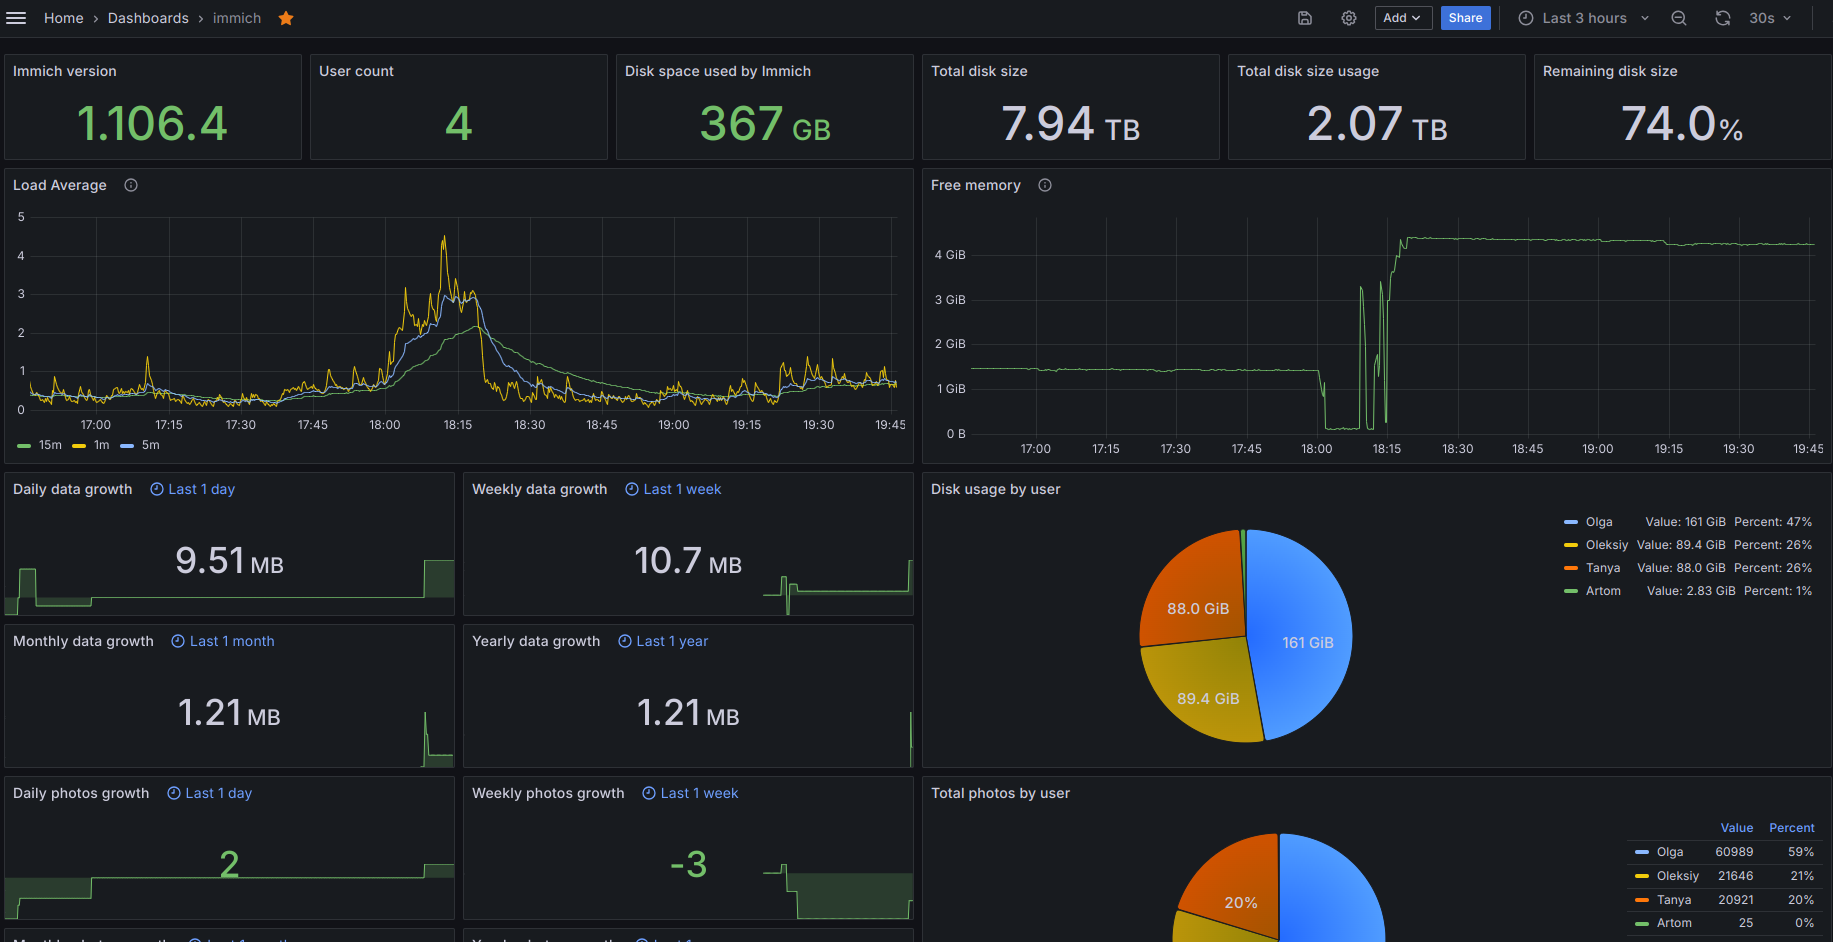
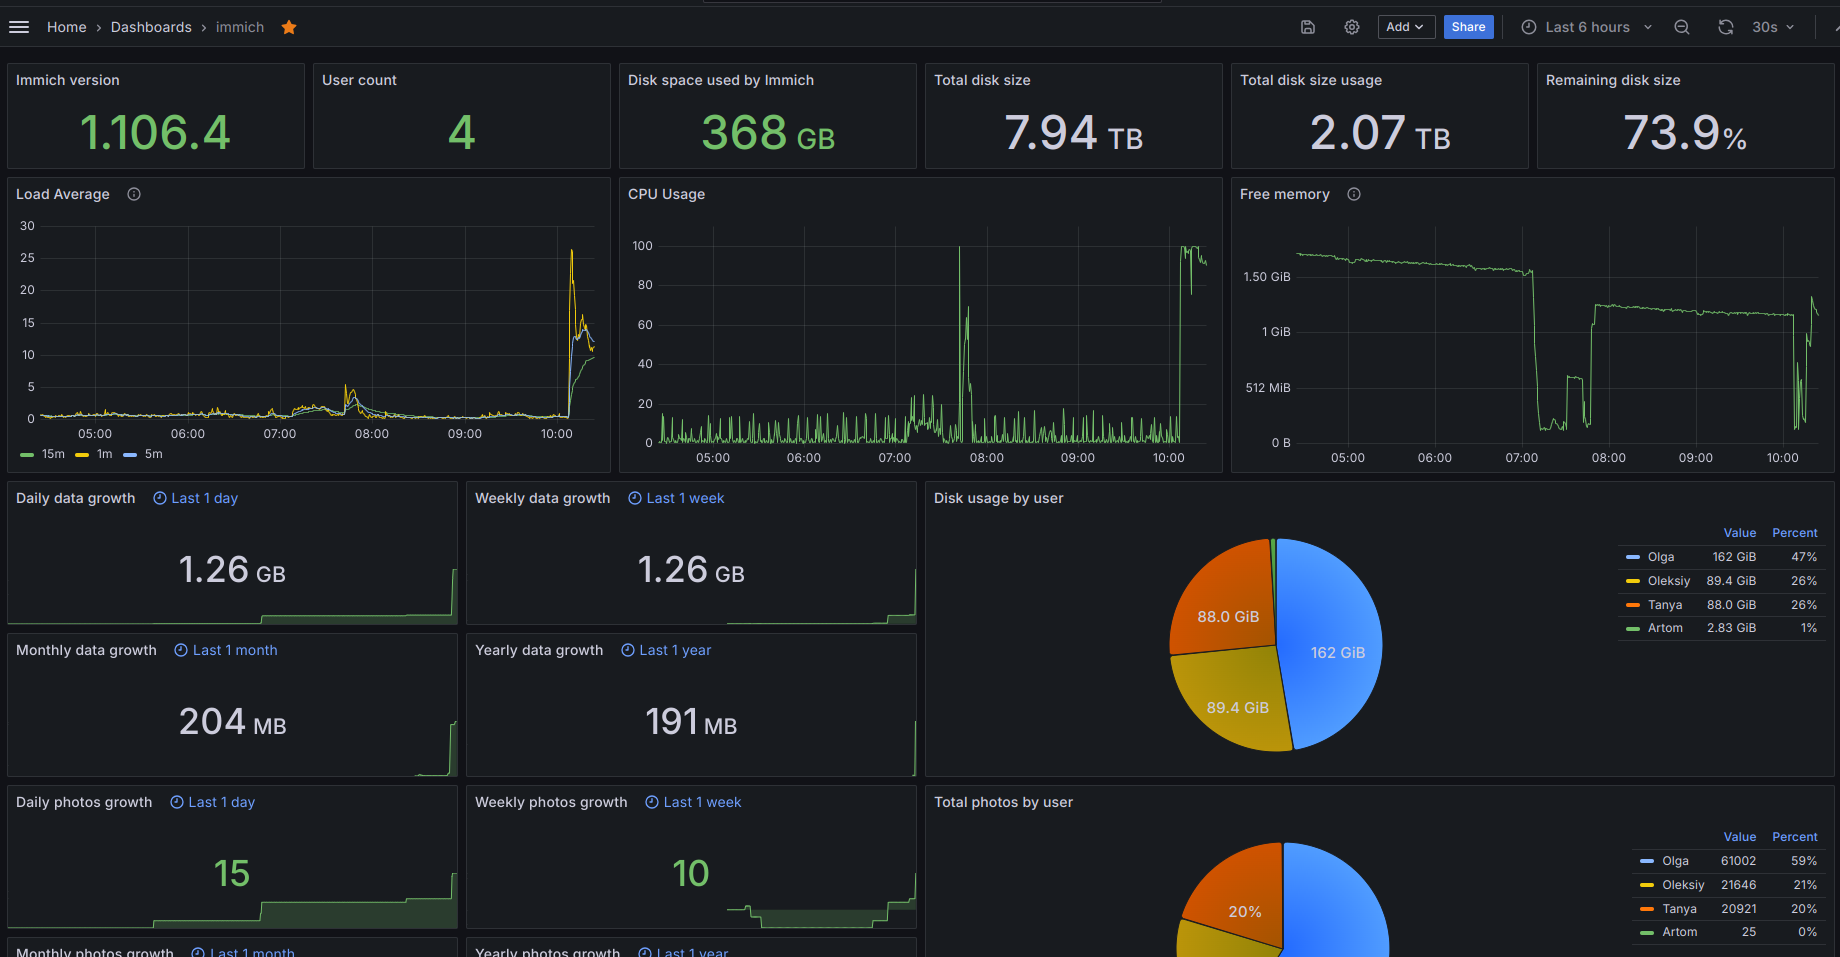
feat: add CPU usage metrics

diff --git a/immich_exporter/exporter.py b/immich_exporter/exporter.py
@@ -198,6 +198,7 @@ class ImmichMetricsCollector:
     def get_system_stats(self):
         loadAvg = os.getloadavg()
         virtualMem = psutil.virtual_memory()
+        cpu = psutil.cpu_percent(interval=1, percpu=False)
         return [
             {
                 "name": f"{self.config['metrics_prefix']}_system_info_loadAverage",
@@ -246,6 +247,11 @@ class ImmichMetricsCollector:
                 "value": virtualMem[4],
                 "help": "Virtual Memory - Free",
                 "labels": {"type": "Free"},
+            },
+            {
+                "name": f"{self.config['metrics_prefix']}_system_info_cpu_usage",
+                "value": cpu,
+                "help": "Representing the current system-wide CPU utilization as a percentage",
             },
         ]
 

diff --git a/README.md b/README.md
@@ -5,7 +5,7 @@ A prometheus exporter for Immich. Get metrics from a server and offers them in a
 
 ## How to use it
 
-Here is an example docker run command 
+Here is an example docker run command
 
 ```
 docker run -e IMMICH_PORT=8080 -e IMMICH_HOST=192.168.178.1 -e IMMICH_API_TOKEN=TOKEN -p 8000:8000 friendlyfriend/prometheus-immich-exporter
@@ -35,12 +35,12 @@ These are the metrics this program exports, assuming the `METRICS_PREFIX` is `im
 
 | `metric name`                            | `description`                                                             |
 |------------------------------------------|---------------------------------------------------------------------------|
-| `immich_server_info_version_number`      | `pings server and passes version number with the use of labels={version}` |     
-| `immich_server_info_diskAvailable`       | `available space on disk`                                                 |     
-| `immich_server_info_totalDiskSize`       | `total disk size`                                                         |     
-| `immich_server_info_diskUse`             | `disk space used by your system`                                          |     
-| `immich_server_info_diskUsagePercentage` | `same as above but in percentage`                                         |     
-             
+| `immich_server_info_version_number`      | `pings server and passes version number with the use of labels={version}` |
+| `immich_server_info_diskAvailable`       | `available space on disk`                                                 |
+| `immich_server_info_totalDiskSize`       | `total disk size`                                                         |
+| `immich_server_info_diskUse`             | `disk space used by your system`                                          |
+| `immich_server_info_diskUsagePercentage` | `same as above but in percentage`                                         |
+
 | `metric name`                         | `description`                               |
 |---------------------------------------|---------------------------------------------|
 | `immich_server_stats_user_count`      | `number of users signed up `                |
@@ -51,10 +51,11 @@ These are the metrics this program exports, assuming the `METRICS_PREFIX` is `im
 | `immich_server_stats_usage_by_users`  | `the disk space each user uses`             |
 | `immich_server_stats_usage_growth`    | `sum of disk space taken up by all users`   |
 
-| `metric name`                         | `description`                                                    |
-|---------------------------------------|------------------------------------------------------------------|
-| `immich_system_info_loadAverage`      | `array of load average (1m, 5m 15m)`                             |     
-| `immich_system_info_memory`           | `array of memory states (Total, Available, Percent, Used, Free)` |     
+| `metric name`                         | `description`                                                          |
+|---------------------------------------|------------------------------------------------------------------------|
+| `immich_system_info_loadAverage`      | `array of load average (1m, 5m 15m)`                                   |
+| `immich_system_info_memory`           | `array of memory states (Total, Available, Percent, Used, Free)`       |
+| `immich_system_cpu_usage`             | `Representing the current system-wide CPU utilization as a percentage` |
 
 
 ## Screenshot
